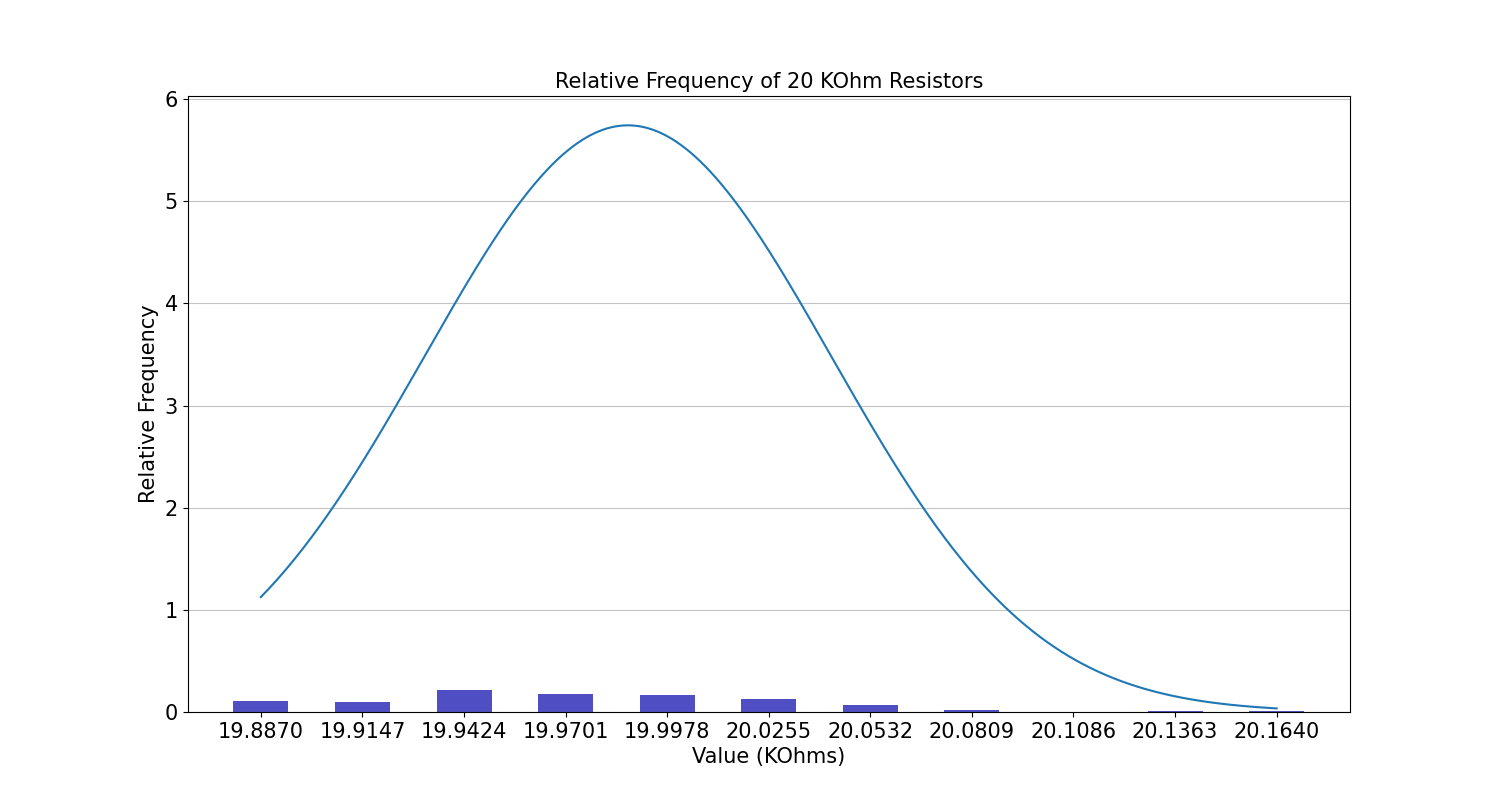
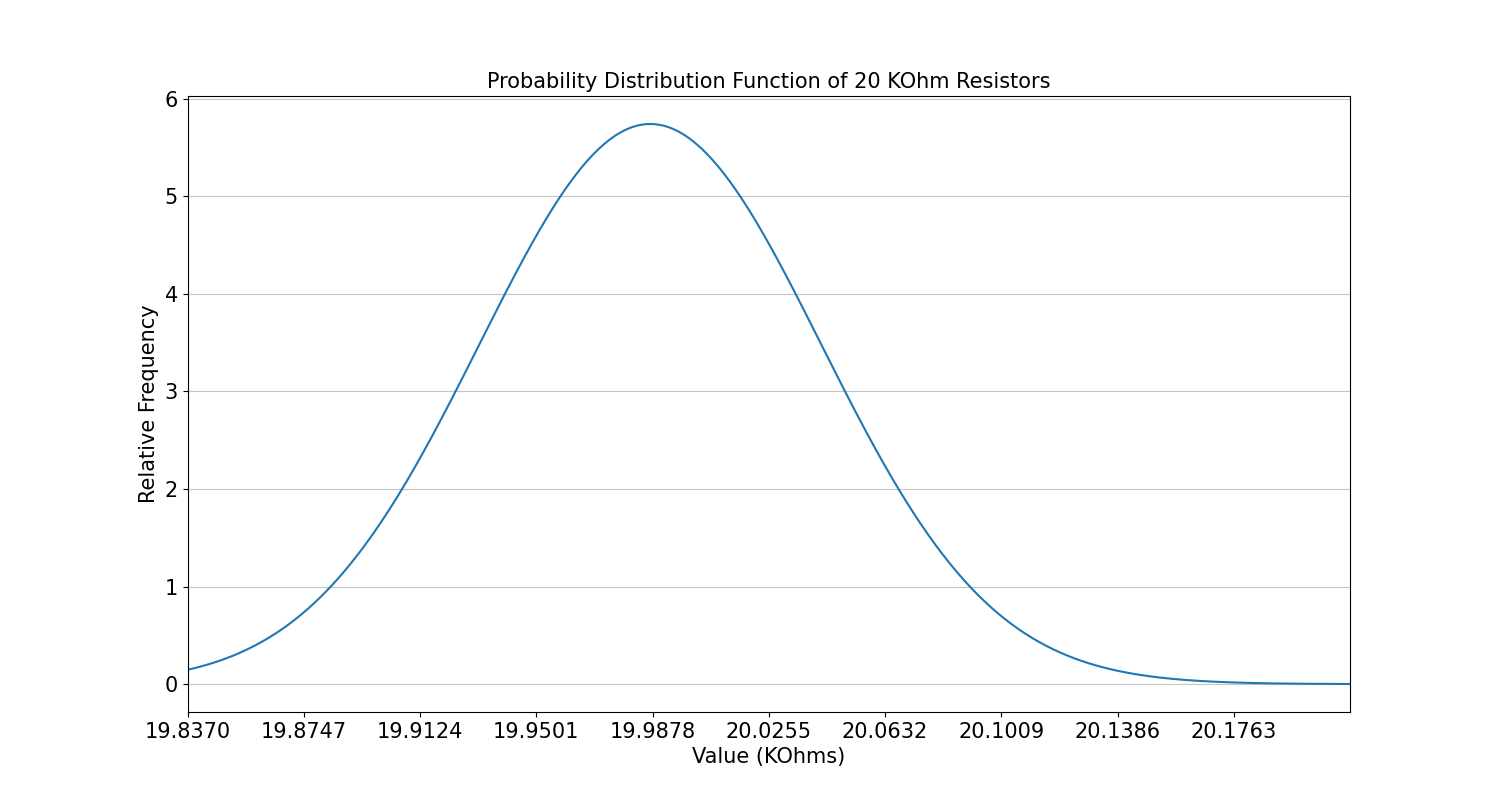
finished distributiont tables

diff --git a/src/freq_histogram.py b/src/freq_histogram.py
@@ -53,19 +53,27 @@ def graph_rel_freq(bin_edges, heights, n):
 
 def graph_normal_dist(mean, std_dev, max, min, bin_edges, heights):
 
-    x = np.linspace(min, max, 1000)
+    x = np.linspace(min - 0.05, max + 0.05, 1000)
     y = ( 1 / ( ((2 * np.pi)** 1/2) * std_dev)) * (np.exp(-1 * (((x - mean)** 2) / (2 * (std_dev ** 2)))))
     plt.figure(figsize=[15, 8])
     plt.plot(x, y)
-    plt.bar(bin_edges, heights, width = 0.015, color='#0504aa',alpha=0.7, align="center")
-    plt.xlim(min - 0.02, max + 0.02)
-    plt.xticks(bin_edges, fontsize=15)
+    plt.xlim(min - 0.05, max + 0.05)  
+
+    interval = ((max + 0.05) - (min - 0.05))/10
+    ticks = []
+    counter = min - 0.05
+
+    while counter <= max + 0.05:
+        ticks.append(counter)
+        counter += interval
+    
+    plt.xticks(ticks, fontsize=7)
     plt.grid(axis='y', alpha=0.75)
     plt.xlabel('Value (KOhms)',fontsize=15)
     plt.ylabel('Relative Frequency',fontsize=15)
     plt.xticks(fontsize=15)
     plt.yticks(fontsize=15)
-    plt.title('Relative Frequency of 20 KOhm Resistors',fontsize=15)
+    plt.title('Probability Distribution Function of 20 KOhm Resistors',fontsize=15)
     plt.savefig('./out/std_distro')
 
 def main():
